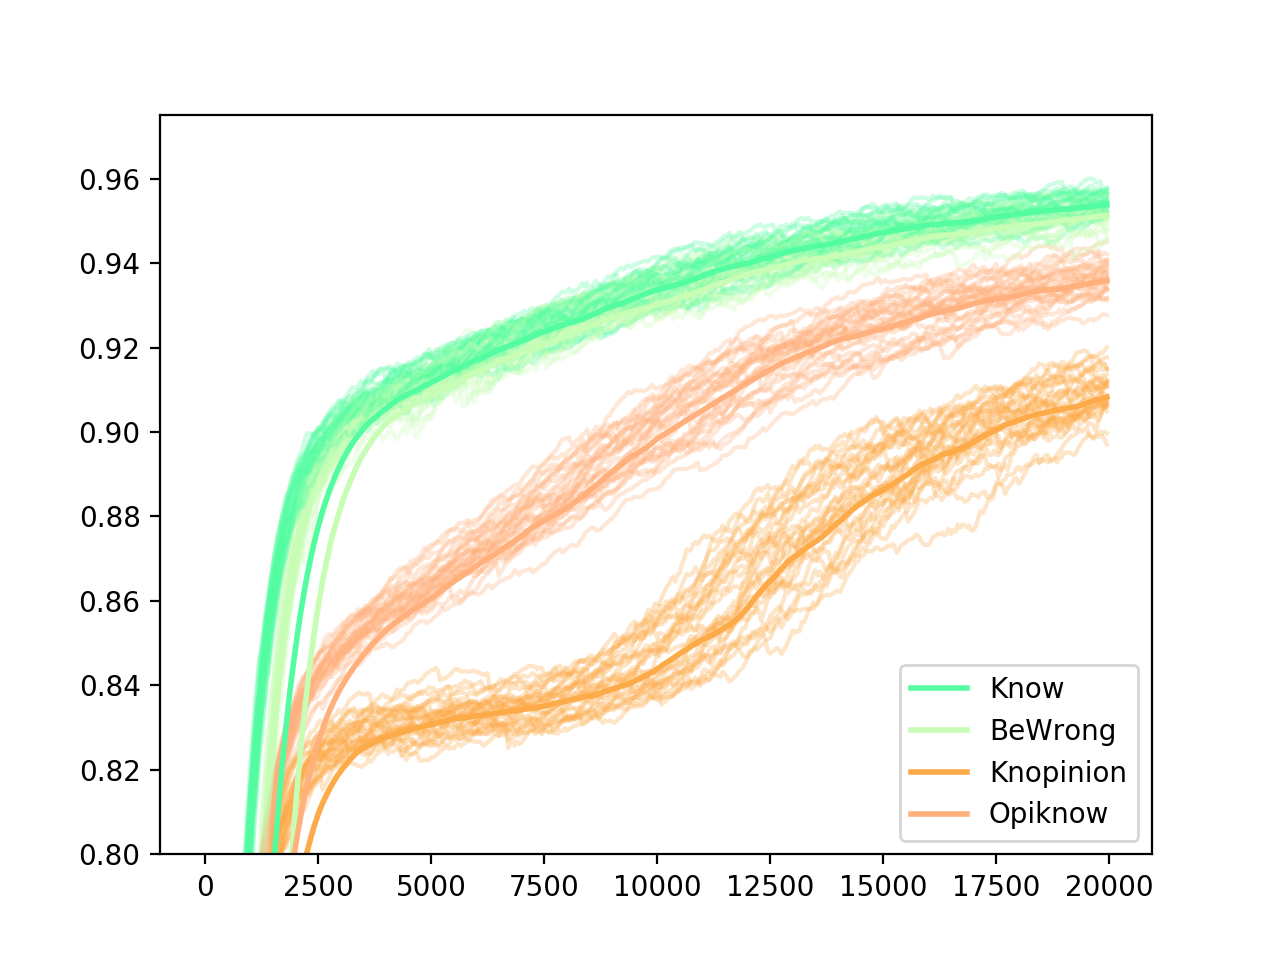
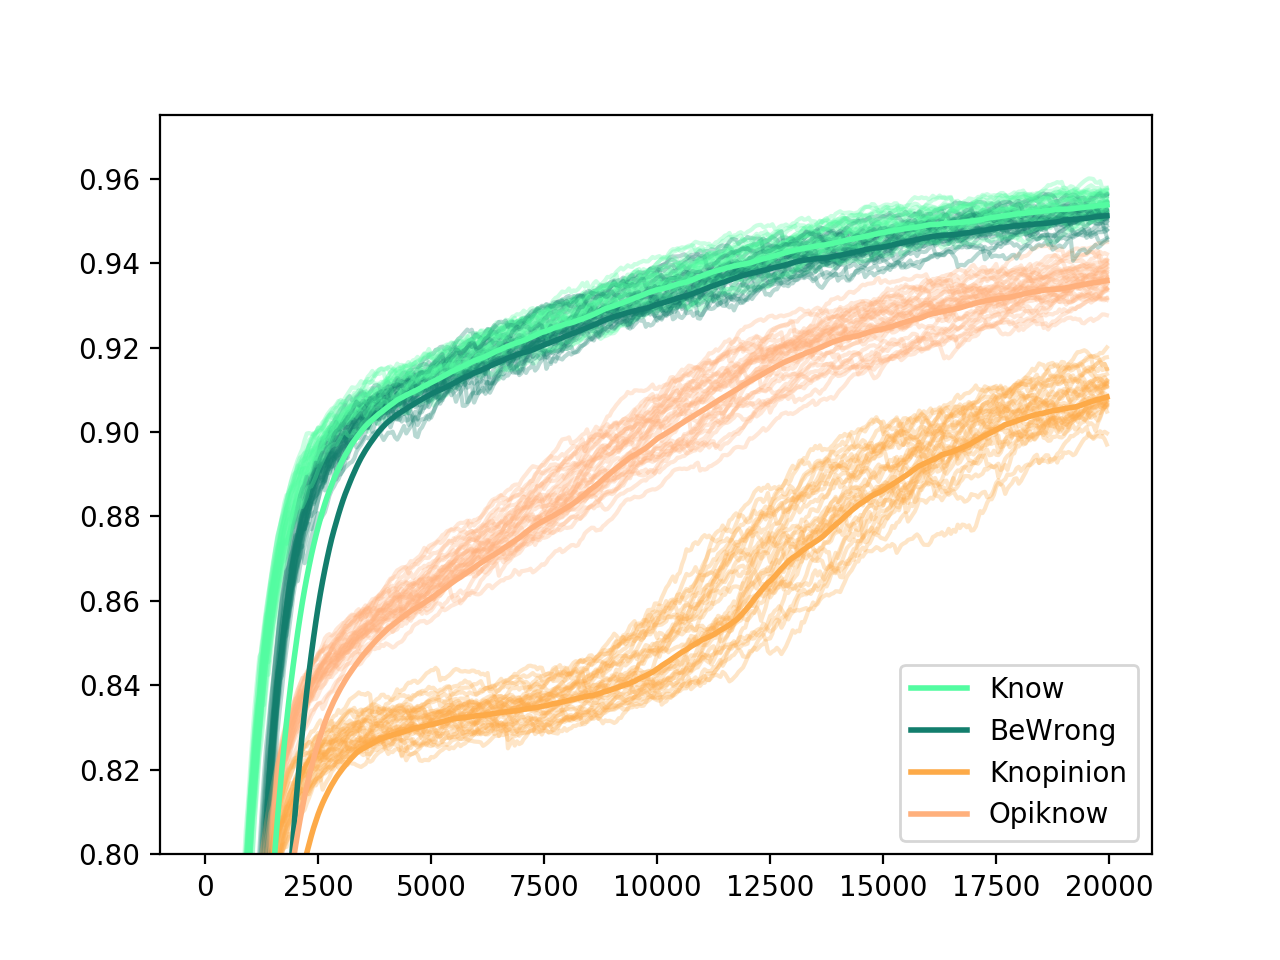
updated colors

Changed region(s): [[0.1875, 0.1875, 0.875, 0.9062], [0.7188, 0.75, 0.75, 0.7812]]

diff --git a/analysis.py b/analysis.py
@@ -23,7 +23,7 @@ import util
 import verbs
 
 
-COLORS = ['xkcd:sea green', 'xkcd:pale green',
+COLORS = ['xkcd:sea green', 'xkcd:blue green',
           'xkcd:light orange', 'xkcd:peach']
 
 
